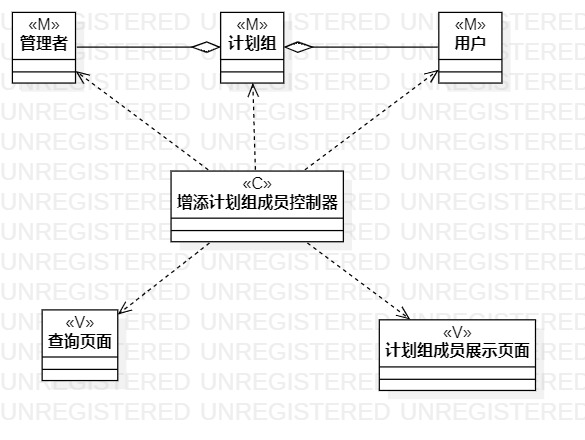
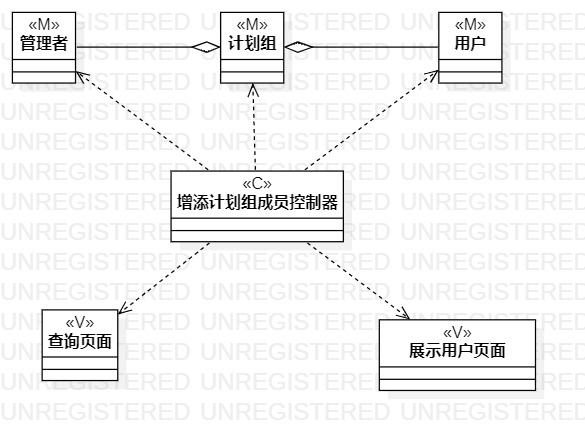
更新部分实验图细节

Changed region(s): [[0.6462, 0.7682, 0.9231, 0.8273]]

diff --git a/students/1714080902206/实验1.md b/students/1714080902206/实验1.md
@@ -19,5 +19,4 @@
 .选题功能应该包含数据库的使用。
 3. 实验报告将按照『教学助理』小程序的要求提交（此步骤延后）。
 
-![](./实验1.jpg)
-=======
+![](./实验1_1.jpg)

diff --git a/students/1714080902206/实验2.md b/students/1714080902206/实验2.md
@@ -25,7 +25,7 @@
 
 ## 四、实验结果
 
-![](./实验2.jpg)
+![](./实验2_1.jpg)
 
 ToDo系统用例图
 
